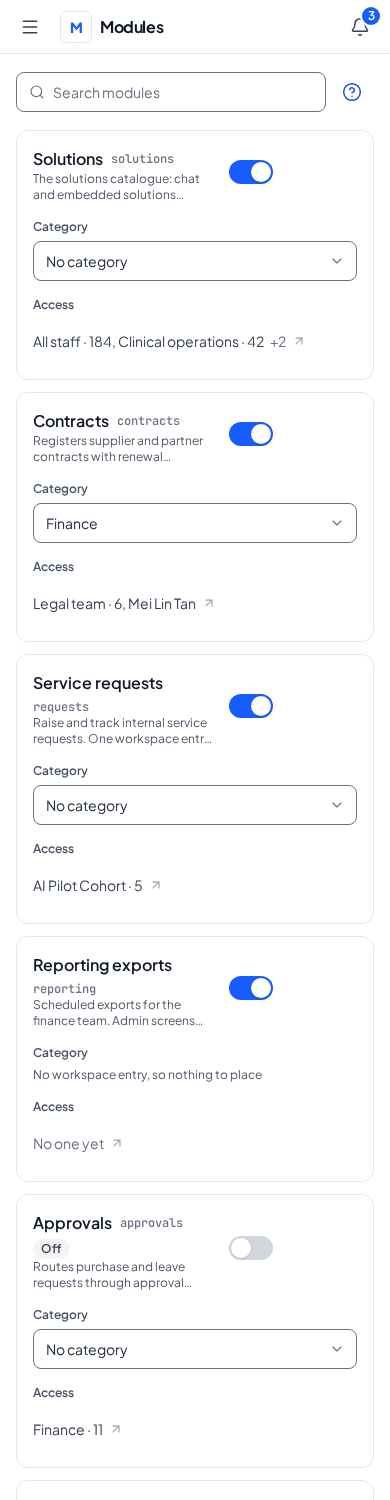
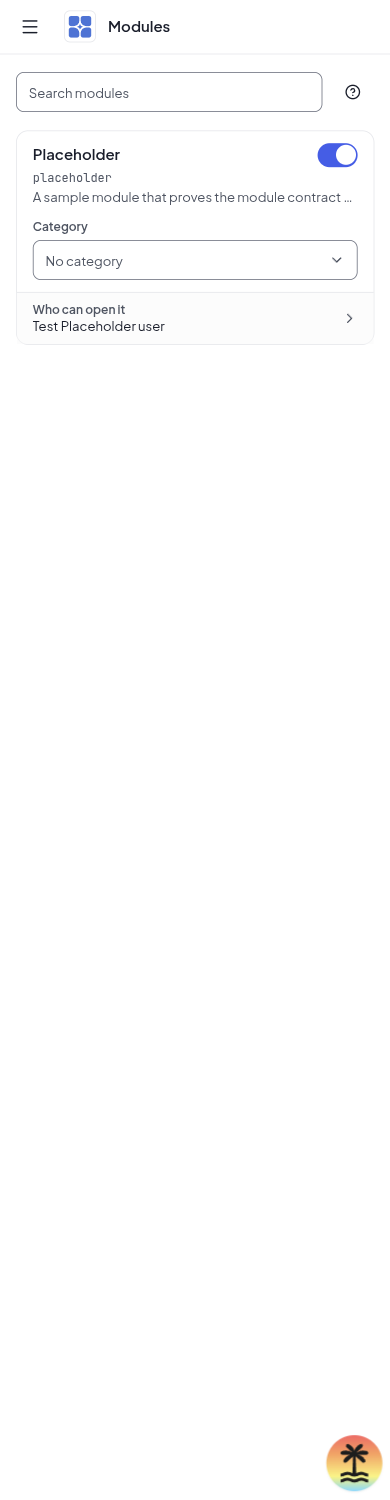
docs(design): import the Modules phone capture
The owner asked for the weak Modules phone capture to be replaced with one of the build after the phone rebuild (107ec0a6). Workspace commit 4a5e5b7.

diff --git a/docs/design/README.md b/docs/design/README.md
@@ -12,7 +12,7 @@ Standing check: a field in a `types.ts` that has no column in `../architecture/d
 
 Ownership: the design authoring workspace is `/home/kenan/work/genie-ops-center-design`; this tree is the imported reference used by the v2 repository. Each section folder holds its specification, `types.ts`, `data.json`, and captures; `reference/` holds screen components as visual evidence (see `reference/README.md`); `design-system/tokens.md` and `shell/spec.md` hold the imported token layer and shell. Importing a design does not approve changes to platform behavior, data shape, module contracts or roadmap scope. Conflicts require explicit reconciliation with the canonical platform decisions and specifications. The [2026-09-19 import record](imports/2026-09-19.md) records provenance, known stale captures and review status. A capture is one historical state, not proof of current behavior; do not choose authority merely by file modification time. Inspect current source and its governing contract, and report disagreements rather than silently promoting screenshots or prototype callbacks into requirements.
 
-Latest snapshot: [2026-09-19 synchronized design bundle](imports/2026-09-19-latest.md), with per-file before/import hashes and remaining review limitations. This supersedes the earlier import status linked above. The snapshot does not approve open product decisions or certify capture freshness; no recoverable pre-import backup is claimed. The [2026-10-22 import](imports/2026-10-22-notifications.md) updates the shell, the account-and-inbox section, and the captures for the Notifications page and the header bell. The [2026-10-28 import](imports/2026-10-28-batch-5-rules.md) updates the tokens, the shell spec, and the sign-in section with the batch 5 design rules. The [2026-10-28 drop zone import](imports/2026-10-28-drop-zone-captures.md) replaces the Branding Identity captures with the build's drop zone.
+Latest snapshot: [2026-09-19 synchronized design bundle](imports/2026-09-19-latest.md), with per-file before/import hashes and remaining review limitations. This supersedes the earlier import status linked above. The snapshot does not approve open product decisions or certify capture freshness; no recoverable pre-import backup is claimed. The [2026-10-22 import](imports/2026-10-22-notifications.md) updates the shell, the account-and-inbox section, and the captures for the Notifications page and the header bell. The [2026-10-28 import](imports/2026-10-28-batch-5-rules.md) updates the tokens, the shell spec, and the sign-in section with the batch 5 design rules. The [2026-10-28 drop zone import](imports/2026-10-28-drop-zone-captures.md) replaces the Branding Identity captures with the build's drop zone. The [2026-10-28 Modules phone import](imports/2026-10-28-modules-phone-capture.md) replaces the Modules phone capture with the build.
 
 Design rounds and the core section each one serves. The rounds carry no numbering of their own.
 

diff --git a/docs/design/imports/2026-10-28-modules-phone-capture.md b/docs/design/imports/2026-10-28-modules-phone-capture.md
@@ -1,0 +1,23 @@
+# Design import, 2026-10-28: the Modules phone capture
+
+Status: imported reference snapshot. It is not blanket design approval.
+
+## Owner decision
+
+The batch 5 fix list, row "Modules page on phones (adapt)" (owner, 2026-10-27): the old capture was weak, so the owner approved a throwaway phone mockup as the target and asked for this capture to be replaced with one of the build. The build now follows that mockup (v2 commit `107ec0a6`): the name, the Off pill and the switch on one line, the id in muted mono, one description line, a labelled full-width category select, and a "Who can open it" row that links to Roles.
+
+## Source and method
+
+Source: `/home/kenan/work/genie-ops-center-design`, branch `chore/product-baseline`, commit `4a5e5b7` (`docs(product): capture the Modules phone card from the build`). The mapping is `product/<path>` to `docs/design/<path>`. HEAD reproduces this file. The workspace still holds uncommitted files under `src/` and elsewhere; this import does not take them.
+
+The capture comes from the running build (the dev app of the batch 5 worktree, `/admin/modules`, light theme), not from the workspace preview app. It keeps the old size.
+
+| File | Size | SHA-256 of the imported file |
+| --- | --- | --- |
[1 lines of base64/hex data omitted]
+
+## Limitations
+
+- The development tenant carries one module, Placeholder, so the capture shows one card. The old capture showed several sample modules. The story `Core/Modules` `Phone` shows the on, off and nothing-to-place cards.
+- The cards sit in one bordered list with dividers, the shared phone card list, not apart as the mockup draws them (ledger, "Decisions to review", Phase 05 task 4).
+- The development build draws the TanStack Devtools button in the lower right corner. It is not part of the product.

diff --git a/docs/design/CHANGELOG.md b/docs/design/CHANGELOG.md
@@ -4,6 +4,11 @@ One entry per design change in this repository, newest first. Each entry names w
 
 ## 2026-10-28
 
+### Changed, the Modules phone capture
+
+- The Modules phone capture now comes from the build, which follows the approved phone mockup: the switch on the name's line, the id in muted mono, one description line, a labelled full-width category select, and a "Who can open it" row that links to Roles (owner, 2026-10-27).
+- File: `product/sections/audit-and-tenant-settings/modules-mobile.png`. Record: `imports/2026-10-28-modules-phone-capture.md`.
+
 ### Added, the event category colors
 
 - A fixed color per audit event category in tables and lists, under the State-vs-Label Rule exception in `DESIGN.md`: sign-in and sessions, people, groups, roles and access, branding and settings, modules, and module events (owner, 2026-10-27).
